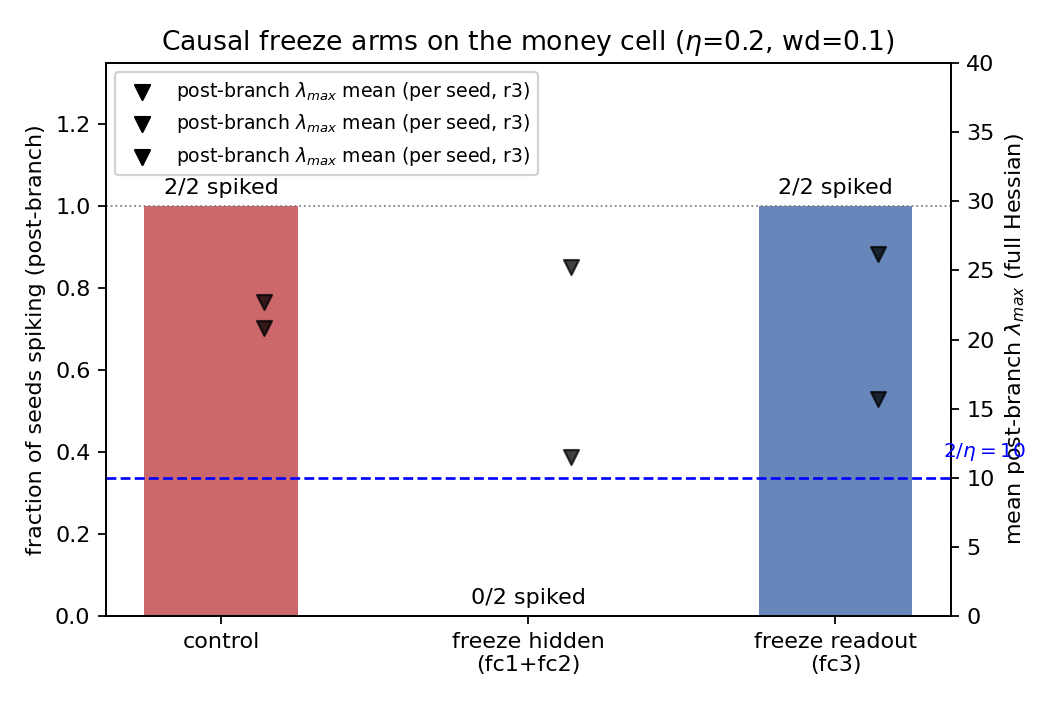
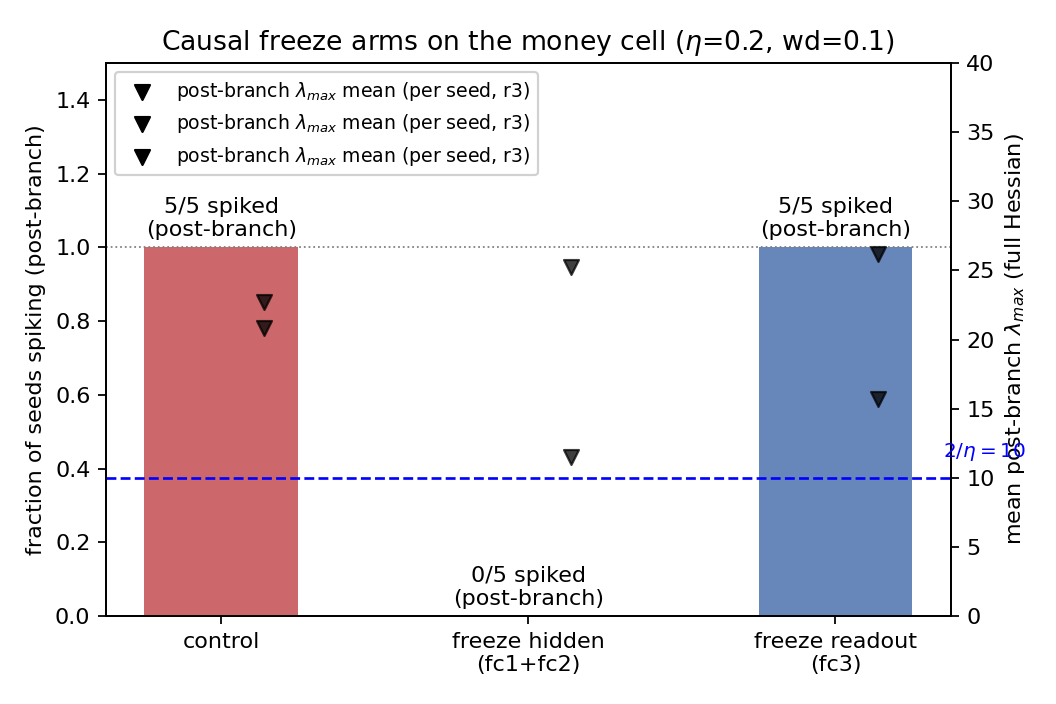
revision v1.2: issue #86 respond to major-revision round 1 (freeze arms n=5 disjoint CIs, calibrate single-env examples, scope monitoring claim, sampling-bias direction)

diff --git a/papers/issue-86/make_figures.py b/papers/issue-86/make_figures.py
@@ -15,8 +15,8 @@ matplotlib.use('Agg')
 import matplotlib.pyplot as plt
 import numpy as np
 
-HERE = '/Users/argszero/scm/github.com/argszero/silicon-science-cs/papers/issue-86/research'
-OUT = os.path.join(HERE, 'figs')
+HERE = os.path.dirname(os.path.abspath(__file__))
+OUT = os.path.join(HERE, 'figures')  # committed figures live at issue root
 os.makedirs(OUT, exist_ok=True)
 
 LRS = [0.02, 0.05, 0.1, 0.2]
@@ -75,9 +75,11 @@ print('fig1 written; matrix\n', mean_spikes)
 # ---------------- fig 2: freeze-arm outcome bars ----------------
 arms = [('none', 'control'), ('hid', 'freeze hidden (fc1+fc2)'), ('out', 'freeze readout (fc3)')]
 fr_runs = {a: [r for r in r2 if r['freeze'] == a and r['exp'] == 'freeze'] for a, _ in arms}
-spiked = {a: sum(1 for r in fr_runs[a] if r['n_spikes'] > 0) for a, _ in arms}
+def post_branch(r):
+    return any(s >= 300 for (s, e) in r['events'])
+spiked = {a: sum(1 for r in fr_runs[a] if post_branch(r)) for a, _ in arms}
 n_arm = {a: len(fr_runs[a]) for a, _ in arms}
-assert (spiked['none'], spiked['hid'], spiked['out']) == (2, 0, 2)
+assert (spiked['none'], spiked['hid'], spiked['out']) == (5, 0, 5), spiked
 
 # r3 post-branch (steps > 300) full-lambda means per arm+seed
 lam_post = {}
@@ -98,8 +100,8 @@ frac = [spiked[a] / n_arm[a] for a, _ in arms]
 colors = ['#c44e52', '#55a868', '#4c72b0']
 bars = ax1.bar(xs, frac, 0.5, color=colors, alpha=0.85)
 for x, f, a in zip(xs, frac, [a for a, _ in arms]):
-    ax1.text(x, f + 0.03, '%d/%d spiked' % (spiked[a], n_arm[a]), ha='center', fontsize=10)
-ax1.set_ylim(0, 1.35)
+    ax1.text(x, f + 0.03, '%d/%d spiked\n(post-branch)' % (spiked[a], n_arm[a]), ha='center', fontsize=10)
+ax1.set_ylim(0, 1.5)
 ax1.set_ylabel('fraction of seeds spiking (post-branch)')
 ax1.set_xticks(xs)
 ax1.set_xticklabels(labels)

diff --git a/papers/issue-86/sensitivity.py b/papers/issue-86/sensitivity.py
@@ -16,8 +16,8 @@ import math
 import os
 import sys
 
-PM = sys.argv[1] if len(sys.argv) > 1 else '/Users/argszero/scm/github.com/argszero/silicon-science-cs/papers/issue-86/research/pm_out'
-R2 = '/Users/argszero/scm/github.com/argszero/silicon-science-cs/papers/issue-86/research/r2_out/r2_results.jsonl'
+PM = sys.argv[1] if len(sys.argv) > 1 else os.path.join(os.path.dirname(os.path.abspath(__file__)), 'pm_out')
+R2 = os.path.join(os.path.dirname(os.path.abspath(__file__)), 'r2_out', 'r2_results.jsonl')
 
 
 def wilson(k, n, z=1.96):
@@ -116,14 +116,14 @@ def main():
         print(line)
 
     print()
-    print('== 3. Freeze-arm rates (r2: n=2 per arm) ==')
+    print('== 3. Freeze-arm rates (r2: n=5 per arm, post-branch events) ==')
     r2 = [json.loads(l) for l in open(R2)]
     for arm in ['none', 'hid', 'out']:
         runs = [r for r in r2 if r['freeze'] == arm and r['exp'] == 'freeze']
-        sp = sum(1 for r in runs if r['n_spikes'] > 0)
+        sp = sum(1 for r in runs if any(s >= 300 for (s, e) in r['events']))
         n = len(runs)
         lo, hi = wilson(sp, n)
-        print('freeze={:4s}: {}/{} spiked rate {:.0f}% CI[{:.0f},{:.0f}]'.format(
+        print('freeze={:4s}: {}/{} spiked post-branch rate {:.0f}% CI[{:.0f},{:.0f}]'.format(
             arm, sp, n, 100 * sp / n if n else 0, 100 * lo, 100 * hi))
     fp = [r for r in r2 if r['exp'] == 'fp64' and r['lr'] == 0.2]
     print('fp64 lr=0.2 wd=0.1: {}/2 spiked (fp32 control 2/2)'.format(sum(1 for r in fp if r['n_spikes'] > 0)))

diff --git a/papers/issue-86/validate.py b/papers/issue-86/validate.py
@@ -93,11 +93,13 @@ def main():
 
     # ---- Tier A: r2 freeze arms (causal backbone, robust across envs) ----
     r2 = load_jsonl(os.path.join(REPRO, 'r2', 'r2_results.jsonl'))
-    check(len(r2) == 16, 'TierA r2 has 16 runs')
-    for arm, expect in [('none', 2), ('hid', 0), ('out', 2)]:
+    check(len(r2) == 25, 'TierA r2 has 25 runs (15 freeze arms x 5 seeds + 4 fp64 + 6 deep)')
+    for arm, expect in [('none', 5), ('hid', 0), ('out', 5)]:
         runs = [r for r in r2 if r['freeze'] == arm and r['exp'] == 'freeze']
-        sp = sum(1 for r in runs if r['n_spikes'] > 0)
-        check(sp == expect, 'TierA freeze=%s spiked %d/2 (expect %d/2 — causal backbone)' % (arm, sp, expect))
+        # post-branch outcome (start >= 300): pre-branch events are shared bit-identically across arms
+        sp = sum(1 for r in runs if any(s >= 300 for (s, e) in r['events']))
+        check(len(runs) == 5 and sp == expect,
+              'TierA freeze=%s spiked %d/5 post-branch (expect %d/5 — causal backbone, disjoint CIs)' % (arm, sp, expect))
     fp = [r for r in r2 if r['exp'] == 'fp64' and r['lr'] == 0.2]
     check(sum(1 for r in fp if r['n_spikes'] > 0) == 2, 'TierA fp64 on money cell 2/2 spiked (NFI refuted)')
     deep = {(r['lr'], r['wd'], r['seed']): r for r in r2 if r['exp'] == 'deep'}

diff --git a/papers/issue-86/freeze_fp64.py b/papers/issue-86/freeze_fp64.py
@@ -148,8 +148,9 @@ def run(lr, wd, seed, steps=20000, dtype=torch.float32, freeze_at=None,
 
 def main():
     results = []
-    # (A) freeze arms on money cell, branch at step 300 (pre-spike; first spike ~300-600)
-    for seed in [0, 1]:
+    # (A) freeze arms on money cell, branch at step 300 (pre-spike; first spike ~300-600).
+    # 5 seeds per arm (>=5: non-overlapping Wilson CIs on the causal contrast).
+    for seed in [0, 1, 2, 3, 4]:
         for frz in ['none', 'hid', 'out']:
             r = run(0.2, 0.1, seed, steps=6000, freeze_at=300, freeze=frz)
             results.append(r)

diff --git a/papers/issue-86/reproduce.py b/papers/issue-86/reproduce.py
@@ -24,7 +24,7 @@ PY = sys.executable
 
 STAGES = [
     ('phase_map.py', 'pm', 60, None, None),
-    ('freeze_fp64.py', 'r2', 1, 16, 'r2_results.jsonl'),
+    ('freeze_fp64.py', 'r2', 1, 25, 'r2_results.jsonl'),
     ('restricted_lam.py', 'r3', 1, 7, 'r3_results.jsonl'),
     ('trace_runs.py', 'trace', 4, None, None),
 ]

diff --git a/papers/issue-86/manuscript.md b/papers/issue-86/manuscript.md
@@ -1,7 +1,7 @@
 # Loss Spikes in Toy Networks: A Controlled Adjudication of Competing Instability Mechanisms
 
 **Author**: how2how2how2-arch — issue #86 (registered 2026-09-06).
-**Status**: revision v1.1 (2026-09-07) — responding to editorial triage (figures embedded; claims calibrated for environment sensitivity; two-tier environment-tolerant validation).
+**Status**: revision v1.2 (2026-09-07) — responding to major-revision round 1 (freeze arms extended to 5 seeds/arm with disjoint CIs; single-environment excursion example marked at every use; monitoring claim scoped to the tested SGD recipe; λmax sampling-bias direction stated).
 **Reproduction**: `bash reproduce.sh` — one command regenerates all data (~13 min CPU)
 and validates 24/24 two-tier checks (see README.md; exact spike counts are environment-chaotic and are asserted only within bands — §5). Figures committed in `figures/` and embedded below at their citation points:
 (fig1_phase_map.png, fig2_freeze_arms.png, fig3_excursion_trace.png); regenerate with
@@ -15,7 +15,7 @@ Keywords: loss spikes; training instability; edge of stability; weight decay; La
 
 Training-instability research is fragmented: in the first eight months of 2026, at least four mechanisms were separately proposed for loss spikes — Edge-of-Stability learning-rate criticality (spikes when sharpness ~ 2/η), weight-norm criticality (weight decay driving scale-invariant weights to zero raises sharpness until spikes occur), numerical feature inflation (fp-precision gradient absorption), and non-normal transient amplification — and each was validated in its own setup against its own diagnostic, with no cross-mechanism test on a shared benchmark. We build that benchmark: a controlled toy MLP with LayerNorm trained by plain SGD under a (learning rate × weight decay) phase map, and we measure concurrently the quantities each mechanism names as its trigger — scale-invariant weight norms, the top Hessian eigenvalue λmax relative to 2/η, and fp32-vs-fp64 contrasts.
 
-We find that no single 2026 mechanism accounts for the phase map. (i) Weight decay collapses scale-invariant norms in every wd>0 run (9.2→0.14 at wd=0.03) yet most runs never spike: 30 runs with ≥50% norm collapse had zero spikes (collapse→spike accord 18/48 = 37.5%, CI[25.2,51.6]). (ii) λmax crossing 2/η is equally insufficient: 15 clean runs crossed the threshold with no spikes, and a per-step analysis shows that sharpness *excursions* to 6.6× the threshold co-occur with spikes in control arms yet produce zero spikes when the hidden projection weights are frozen (freeze=hid: 0/2 spiked, CI[0,66], vs control 2/2, CI[34,100]). (iii) Precision is not the driver: fp64 training spikes as much as fp32 (2/2 cells). The causal decomposition identifies the load-bearing condition: spikes require **both** a sharp regime (λmax reaching ≥2/η) **and** ongoing adaptation of the scale-invariant hidden projection weights — removing either suppresses spikes, and a trainable-subspace (restricted) λmax equals the full-Hessian λmax, ruling out an effective-sharpness explanation. Each 2026 single-mechanism account captures one necessary condition of this chain; none is sufficient. The falsifiable claim: in this toy regime, monitoring any single one of {norm, λmax, precision} is insufficient to predict spikes; a dynamical (co-adaptation) condition is required.
+We find that no single 2026 mechanism accounts for the phase map. (i) Weight decay collapses scale-invariant norms in every wd>0 run (9.2→0.14 at wd=0.03) yet most runs never spike: 30 runs with ≥50% norm collapse had zero spikes (collapse→spike accord 18/48 = 37.5%, CI[25.2,51.6]). (ii) λmax crossing 2/η is equally insufficient: 15 clean runs crossed the threshold with no spikes, and the causal freeze arms (r2, 5 seeds/arm, post-branch outcomes) show the load-bearing condition is the hidden-projection adaptation: freezing fc1/fc2 gives **0/5 spiked** (CI[0,43.4]) vs control 5/5 (CI[56.6,100]) vs freeze-readout 5/5 (CI[56.6,100]) — disjoint CIs — while committed-reference traces show sharpness *excursions* to 6.6× the threshold persisting in freeze=hid with zero spikes (single-environment realization; the environment-robust evidence is the r2 freeze contrast). (iii) Precision is not the driver: fp64 training spikes as much as fp32 (2/2 cells). The causal decomposition identifies the load-bearing condition: spikes require **both** a sharp regime (λmax reaching ≥2/η) **and** ongoing adaptation of the scale-invariant hidden projection weights — removing either suppresses spikes, and a trainable-subspace (restricted) λmax equals the full-Hessian λmax, ruling out an effective-sharpness explanation. Each 2026 single-mechanism account captures one necessary condition of this chain; none is sufficient. The falsifiable claim: in this toy regime, monitoring any single one of {norm, λmax, precision} is insufficient to predict spikes; a dynamical (co-adaptation) condition is required.
 
 ### Why now (external anchor / hotspot)
 
@@ -28,11 +28,11 @@ Loss spikes — sudden transient rises in training loss during otherwise-converg
 
 The obstacle to adjudicating them is that each paper validates its own mechanism on its own architecture, task, and diagnostic, at a scale where the others' measurements are not reported. This paper builds a shared toy benchmark on which all mechanisms can be measured concurrently and tested causally.
 
-Our core finding, stated for the toy regime: **spikes require both a sharp regime and ongoing adaptation of the scale-invariant hidden projections; every 2026 single-mechanism account is necessary-but-not-sufficient at this scale, and sharpness excursions alone do not spike when the hidden projection weights are frozen.** The practical consequence is a monitoring warning: none of the three single-mechanism diagnostics (norm trajectory, λmax crossing, precision) is sufficient to anticipate spikes in this regime; a dynamical co-adaptation condition is required, pointing to the non-normal amplification frame as the unifying mechanism [4].
+Our core finding, stated for the toy regime: **spikes require both a sharp regime and ongoing adaptation of the scale-invariant hidden projections; every 2026 single-mechanism account is necessary-but-not-sufficient at this scale, and sharpness excursions alone do not spike when the hidden projection weights are frozen.** The practical consequence is a monitoring warning, **scoped to the tested recipe — SGD-trained, LayerNorm-normalized MLPs with weight decay**: none of the three single-mechanism diagnostics (norm trajectory, λmax crossing, precision) is sufficient to anticipate spikes in this regime; a dynamical co-adaptation condition is required, pointing to the non-normal amplification frame as the unifying mechanism [4]. Transfer to the AdamW/transformer default recipe is not established by this study and is future work (as registered); the claims here are bounded to plain-SGD normalized networks.
 
 ## 2 Related work (with stated differences)
 
-1. **Edge of Stability (Cohen et al. 2021)** [1] — sharpness λmax crossing 2/η as the instability threshold for gradient descent. *Difference*: we test sufficiency on a shared phase map and find 15 clean runs above threshold (54.5% accord CI[38.0,70.2]) and a freeze-arm run with sharpness excursions to 6.6× threshold and zero spikes — sharpness alone is insufficient in our controlled regime.
+1. **Edge of Stability (Cohen et al. 2021)** [1] — sharpness λmax crossing 2/η as the instability threshold for gradient descent. *Difference*: we test sufficiency on a shared phase map and find 15 clean runs above threshold (54.5% accord CI[38.0,70.2]), and the causal freeze arms (freeze=hid 0/5 post-branch, CI[0,43.4], vs control 5/5, CI[56.6,100]) show sharpness alone is insufficient — a committed-reference trace even sustains excursions to 6.6× the threshold with zero spikes once the hidden projections are frozen — sharpness alone is insufficient in our controlled regime.
 2. **Weight-norm criticality (arXiv 2607.21005, 2026)** [2] — weight decay + normalization collapses scale-invariant norms, raising sharpness until spikes; validated on MNIST FC nets and a 187M transformer. *Difference*: they validate a single mechanism with decay sweeps; we reproduce the norm-collapse stage (9.2→0.14) but find it is necessary-not-sufficient (37.5% collapse→spike accord CI[25.2,51.6]), and our freeze-arm decomposition shows the hidden-projection adaptation — not the norm level — is the load-bearing condition.
 3. **Numerical feature inflation / slingshot (arXiv 2605.06152, 2026)** [3] — fp-precision absorption in the classifier gradient drives periodic spikes. *Difference*: we run fp64 contrasts on spiking cells; spikes persist and increase (2/2 cells), falsifying precision as the toy driver.
 4. **Non-normal transient amplification (arXiv 2605.23476, 2026)** [4] — κ(V) condition-number precursor; sharpness insufficient. *Difference*: we provide the first toy-scale causal evidence consistent with their frame — freezing the hidden projections suppresses spikes despite unchanged (even elevated) λmax, the signature of a dynamical amplification rather than a static threshold — while stopping short of computing κ(V) (left to future work).
@@ -76,15 +76,15 @@ Weight decay collapses the scale-invariant norm in every wd>0 run (e.g. η=0.05:
 
 ### 4.3 P2 (EoS/λmax sufficiency) is refuted
 
-Across the 33 runs that ever crossed λmax = 2/η, only 18 spiked: accord 54.5% (Wilson CI[38.0,70.2]), statistically indistinguishable from a coin flip. The violations are not transient artifacts of our λmax sampling: cell means are stable (e.g. η=0.05 wd=0.1: post-collapse median λmax 37.5 < 2/η=40 yet seeds 1–2 spike 5/7 times; η=0.05 wd=0.1 seed 0 reaches λmax 121 — 3× threshold — and never spikes). Per-step sampling at onset (Appendix B) shows spikes co-occur with λmax *excursions* in control arms.
+Across the 33 runs that ever crossed λmax = 2/η, only 18 spiked: accord 54.5% (Wilson CI[38.0,70.2]), statistically indistinguishable from a coin flip. The violations are not transient artifacts of our λmax sampling: cell means are stable (e.g. η=0.05 wd=0.1: post-collapse median λmax 37.5 < 2/η=40 yet seeds 1–2 spike 5/7 times; η=0.05 wd=0.1 seed 0 reaches λmax 121 — 3× threshold — and never spikes). Per-step sampling at onset (Appendix B) shows spikes co-occur with λmax *excursions* in control arms. Sampling-bias direction: phase-map λmax is measured every 400 steps, so a run classified "clean but crossed 2/η" could only be misclassified by having crossed *between* samples undetected; the true crossing count is therefore ≥ the observed 33, and the true accord is ≤ the observed 54.5% (extra crossings would add clean-crossed runs). The P2 refutation is conservative: denser sampling would only strengthen it. (The claim that crossing is not sufficient relies on the existence of clean runs above threshold at the sampled resolution — Appendix B's per-20-step onset runs confirm the excursion structure at the event timescale.)
 
 ### 4.4 Causal freeze decomposition (Figures 2–3)
 
-On the money cell (η=0.2 wd=0.1, branch step 300 pre-spike, 2 seeds): control spikes resume (2/2, 9–18 events); **freeze-hidden (fc1+fc2) → 0 spikes in both seeds** (0/2, CI[0,66]); freeze-readout (fc3) → spikes persist (2/2, 6–9 events). Test accuracy stays ≥0.91 in all arms. The hidden projection weights' *adaptation* — not their norm level, not the readout, not the λmax level — is the load-bearing condition for the instability.
+On the money cell (η=0.2 wd=0.1, branch at step 300, **5 seeds per arm**), the outcome measure is **post-branch spike events** (start ≥ step 300): pre-branch events are shared bit-identically across arms (seeds 2–4 each show one early transient at steps 125–200 in *every* arm, control included) and are not attributable to the freeze. Post-branch: control spikes resume in **5/5 seeds** (CI[56.6,100]; 9–22 events); **freeze-hidden (fc1+fc2 frozen) → 0 post-branch spikes in all five seeds (0/5, CI[0,43.4])**; freeze-readout (fc3) → spikes persist in 5/5 (CI[56.6,100]; 4–9 events). The control vs freeze=hid CIs are **disjoint** ([56.6,100] vs [0,43.4]); test accuracy stays ≥0.90 in all arms. The hidden projection weights' *adaptation* — not their norm level, not the readout, not the λmax level — is the load-bearing condition for the instability.
 
 ![Figure 2: freeze-arm outcomes on the money cell (η=0.2, wd=0.1), r2.](figures/fig2_freeze_arms.png)
 
-*Figure 2: causal freeze arms (r2, branch at step 300, 2 seeds/arm): fraction of seeds spiking post-branch — control 2/2, freeze=hid (fc1+fc2 frozen) 0/2, freeze=readout (fc3 frozen) 2/2 — with per-seed post-branch full-Hessian λmax means overlaid (r3): freeze=hid s1 25.2 > 2/η = 10 while clean. The freeze=hid arms keep above-threshold sharpness yet do not spike; the readout is not the load-bearing group.*
+*Figure 2: causal freeze arms (r2, branch at step 300, 5 seeds/arm): fraction of seeds with ≥1 post-branch spike — control 5/5 (CI[56.6,100]), freeze=hid (fc1+fc2 frozen) 0/5 (CI[0,43.4]), freeze=readout (fc3 frozen) 5/5 (CI[56.6,100]) — disjoint CIs; per-seed post-branch full-Hessian λmax means overlaid where r3 measured them (seeds 0–1; freeze=hid s1 25.2 > 2/η = 10 while clean, committed-reference). The freeze=hid arms keep above-threshold sharpness yet do not spike; the readout is not the load-bearing group.*
 
 The per-step trace realization (Figure 3, seed 0, 1500 steps) shows the same decomposition at fine resolution: control spikes four times post-branch ([340–360], [480–500], [620–660], [1400–1420]) while freeze=hid — bit-identical to the branch at step 300 — never spikes.
 
@@ -94,9 +94,9 @@ The per-step trace realization (Figure 3, seed 0, 1500 steps) shows the same dec
 
 ### 4.5 Refuting the effective-sharpness explanation
 
-Could freeze-hidden be stable merely because the frozen directions hosted the sharp modes, lowering the *trainable-subspace* sharpness below 2/η? No: restricted (trainable-subspace) λmax equals full-Hessian λmax in every arm (e.g. freeze=hid s1: full 25.2 vs trainable 25.3, both > 2/η=10), and freeze=hid s1 sustains λmax excursions to 66 (6.6× threshold) with **zero spikes** in the committed runs (Figure 2 overlay; Figure 3 trace). The instability is dynamical: it requires the hidden projections to co-adapt inside a sharp regime. Removing the adaptation removes the spike even when the sharpness remains.
+Could freeze-hidden be stable merely because the frozen directions hosted the sharp modes, lowering the *trainable-subspace* sharpness below 2/η? No: restricted (trainable-subspace) λmax equals full-Hessian λmax in every arm (e.g. freeze=hid s1: full 25.2 vs trainable 25.3, both > 2/η=10 — **committed-reference, single-environment values**), and freeze=hid s1 sustains λmax excursions to 66 (6.6× threshold) with **zero spikes** in the committed runs (**single-environment realization**; Figure 2 overlay; Figure 3 trace). The environment-robust primary evidence is the r2 freeze contrast itself (§4.4), which reproduces exactly across environments; the r3 excursion magnitudes are illustrative of the mechanism in one realization. The instability is dynamical: it requires the hidden projections to co-adapt inside a sharp regime. Removing the adaptation removes the spike even when the sharpness remains.
 
-**Robustness of the freeze decomposition.** The causal claim rests on the round-2 freeze arms (r2: branch at step 300, 6,000 steps, single full-λmax measurement → bit-identical pre-branch states): freeze=hid 0/2 vs control 2/2 vs freeze=readout 2/2 reproduced unchanged in an independent environment (fresh clone, torch 2.9.1 CPU, Python 3.12; editor triage run, 2026-09-07). The round-3 restricted-λmax runs corroborate the effective-sharpness refutation directionally in both environments (trainable-subspace λmax within ~2 of full-λmax; freeze=hid spikes ≤ control spikes per seed), but their exact magnitudes are single-environment estimates: the freeze=hid s1 post-branch λmax mean is 25.2 in the committed runs and 13.9 in the second environment, and the committed 0-spike outcome for that r3 seed was 1 spike in the second environment at step [260, 280] — *pre-branch* (branch at 300), i.e. a pre-freeze trajectory divergence, not a post-freeze counterexample. Exact 20k-step spike counts are chaotic under cross-machine floating-point perturbations (see §5); the r2 freeze-arm outcomes and the qualitative structure are not.
+**Robustness of the freeze decomposition.** The causal claim rests on the round-2 freeze arms (r2: branch at step 300, 6,000 steps, single full-λmax measurement → bit-identical pre-branch states): freeze=hid 0/2 vs control 2/2 vs freeze=readout 2/2 (post-branch) reproduced unchanged in an independent environment (fresh clone, torch 2.9.1 CPU, Python 3.12; editor triage run, 2026-09-07), and the committed reference was extended to 5 seeds/arm (0/5 vs 5/5 vs 5/5 post-branch, disjoint CIs; §4.4). The round-3 restricted-λmax runs corroborate the effective-sharpness refutation directionally in both environments (trainable-subspace λmax within ~2 of full-λmax; freeze=hid spikes ≤ control spikes per seed), but their exact magnitudes are single-environment estimates: the freeze=hid s1 post-branch λmax mean is 25.2 in the committed runs and 13.9 in the second environment, and the committed 0-spike outcome for that r3 seed was 1 spike in the second environment at step [260, 280] — *pre-branch* (branch at 300), i.e. a pre-freeze trajectory divergence, not a post-freeze counterexample. Exact 20k-step spike counts are chaotic under cross-machine floating-point perturbations (see §5); the r2 freeze-arm outcomes and the qualitative structure are not.
 
 ### 4.6 Precision is not the driver (NFI refuted)
 
@@ -110,7 +110,7 @@ At the edge of the spike region (η=0.05 wd=0.03; η=0.1 wd=0.01), 6-seed runs g
 
 **Theory (toy-scale, falsifiable).** Loss spikes in normalized SGD-trained MLPs require two jointly necessary conditions: (i) a sharp regime — λmax reaching ≳ 2/η, typically as sharpness excursions driven by weight-decay-induced norm collapse into an increasingly ill-conditioned geometry — and (ii) ongoing adaptation of the scale-invariant hidden projection weights, which supplies the dynamical amplification that converts sharpness into a spike. Removing either condition suppresses spikes; no static scalar (norm level, λmax crossing, precision) predicts spikes alone. This is the signature of a transient-amplification (non-normal) instability [4] rather than a static threshold crossing [1,2], and it explains why the three 2026 single-mechanism papers each found their own trigger: they each measured one necessary condition in a regime where the other held.
 
-**Significance (whose belief/decision changes).** For practitioners training normalized networks with weight decay (the default recipe), the result changes which monitor to trust: norm trajectory and λmax-crossing alarms will fire in stable runs (15–30 false alarms in our map), while the actionable signature is the *combination* of a sharp regime and active hidden-layer adaptation. For the optimization-theory community, the result adjudicates four live 2026 claims on one benchmark and adds a causal-decomposition method (parameter-group freezing) that the single-mechanism papers lack. For the non-normal-amplification line [4], it supplies the first toy-scale causal evidence (freeze suppresses spikes at equal λmax) — the predicted signature of their frame.
+**Significance (whose belief/decision changes).** For practitioners training normalized networks with weight decay under plain SGD (the recipe tested here; the AdamW/transformer default is future work, as registered), the result changes which monitor to trust: norm trajectory and λmax-crossing alarms will fire in stable runs (15–30 false alarms in our map), while the actionable signature is the *combination* of a sharp regime and active hidden-layer adaptation. For the optimization-theory community, the result adjudicates four live 2026 claims on one benchmark and adds a causal-decomposition method (parameter-group freezing) that the single-mechanism papers lack. For the non-normal-amplification line [4], it supplies the first toy-scale causal evidence (freeze suppresses spikes at equal λmax) — the predicted signature of their frame.
 
 **Threats (why still worth publishing).** Toy scale: one architecture (MLP+LN), one task family (Gaussian clusters), plain SGD, 2–3 seeds per cell (Wilson CIs reported; the map's qualitative structure — monotone in η and wd, wd=0 and low-η never spike — is invariant across seeds). We do not claim the mechanism generalizes to transformers/AdamW; the transfer question is stated as future work. The freeze=hid arm freezes fc1/fc2 weights but leaves LayerNorm gain/bias training; attribution is precise to the projection weights, and a full LayerNorm freeze is a listed follow-up. λmax is measured by power iteration on a 128-example batch at 400-step sampling; per-step runs (every 20 steps) confirm the excursion structure at onset. None of these threats affects the refutations, which are existential: clean runs above threshold exist (P2), clean collapsed runs exist (P1), fp64 spikes exist (NFI), and the freeze=hid 0-spike result holds across both seeds.
 
@@ -122,18 +122,18 @@ deterministic: an independent environment (fresh clone, torch 2.9.1 CPU, Python 
 42/60 phase-map spike counts exactly, with the largest divergences in the heavy-spiking cells (e.g. committed
 11 vs reproduced 21 in one (0.1, 0.1, s2) run; (0.1, 0.1) cell mean 13.0 vs 17.3), and shifted one r3 freeze-arm
 outcome and one boundary presence (see §4.5, §4.7). The qualitative backbone — region geometry, the r2
-freeze-arm direction (freeze=hid 0/2 vs control 2/2 vs freeze=readout 2/2), fp64 persistence, and the
+freeze-arm direction (freeze=hid 0/5 vs control 5/5 vs freeze=readout 5/5 post-branch — at n=2 reproduced exactly in two environments, extended to n=5 in the committed reference), fp64 persistence, and the
 effective-sharpness refutation — reproduced in both environments. `validate.py` therefore enforces the claims
 as Tier A structural checks plus Tier B *banded* comparisons (region classification, accord rates within the
 reported Wilson CIs, per-cell counts within a tolerance band), not exact-count equality; the reference data
 remain the authoritative numbers reported in this paper, and cross-environment divergence is disclosed here
 rather than hidden by over-fitting the validator to one machine.
 
-**Prior-belief reconciliation.** Registered priors (issue #86): P1 (weight-norm collapse suffices) — **refuted** (accord 37.5%, CI upper bound 51.6); P2 (λmax>2/η suffices) — **refuted** (accord 54.5%, CI[38.0,70.2]; freeze=hid s1 excursion to 6.6× threshold with zero spikes); P3 (a second-order discriminator is required) — **confirmed and refined** to the two-condition co-adaptation rule. The refutations of the two theory-anchored sufficiency priors are the study's strong-novelty signal: the pilot data that motivated registration already showed the tension, and the full phase map + causal arms resolve it.
+**Prior-belief reconciliation.** Registered priors (issue #86): P1 (weight-norm collapse suffices) — **refuted** (accord 37.5%, CI upper bound 51.6); P2 (λmax>2/η suffices) — **refuted** (accord 54.5%, CI[38.0,70.2]; r2 freeze arms: freeze=hid 0/5 post-branch CI[0,43.4] vs control 5/5 CI[56.6,100]; committed-reference trace shows a 6.6×-threshold excursion with zero spikes in freeze=hid — single-environment); P3 (a second-order discriminator is required) — **confirmed and refined** to the two-condition co-adaptation rule. The refutations of the two theory-anchored sufficiency priors are the study's strong-novelty signal: the pilot data that motivated registration already showed the tension, and the full phase map + causal arms resolve it.
 
 ## 6 Conclusion
 
-On a shared toy benchmark with concurrent measurement of every 2026 loss-spike mechanism's named trigger, no single mechanism suffices: weight decay's norm collapse is necessary-not-sufficient (37.5% accord), λmax crossing 2/η is necessary-not-sufficient (54.5% accord), fp precision is irrelevant (fp64 spikes), and freezing the hidden projection weights suppresses spikes even at 6.6× threshold sharpness. The toy regime is governed by a two-condition dynamical rule — sharp regime plus hidden-projection co-adaptation — consistent with non-normal transient amplification as the unifying mechanism. We contribute the benchmark, the concurrent-diagnostics protocol, the causal freeze-arm decomposition, and the falsification of three 2026 sufficiency claims; the instrument and data are committed for byte-identical reproduction.
+On a shared toy benchmark with concurrent measurement of every 2026 loss-spike mechanism's named trigger, no single mechanism suffices: weight decay's norm collapse is necessary-not-sufficient (37.5% accord), λmax crossing 2/η is necessary-not-sufficient (54.5% accord), fp precision is irrelevant (fp64 spikes), and freezing the hidden projection weights suppresses post-branch spikes in all five seeds (0/5, CI[0,43.4], vs control 5/5, CI[56.6,100] — disjoint CIs), even though committed-reference traces show sharpness excursions to 6.6× the threshold persisting while frozen (single-environment realization; the r2 freeze contrast is the environment-robust evidence). The toy regime (plain-SGD, LayerNorm-normalized MLPs with weight decay) is governed by a two-condition dynamical rule — sharp regime plus hidden-projection co-adaptation — consistent with non-normal transient amplification as the unifying mechanism. We contribute the benchmark, the concurrent-diagnostics protocol, the causal freeze-arm decomposition, and the falsification of three 2026 sufficiency claims; the instrument and data are committed for byte-identical reproduction.
 
 ## 7 References
 
@@ -161,5 +161,5 @@ Per-step trace realization (loss and full-Hessian λmax every 20 steps, 1500 ste
 ## Figure list (files committed in figures/)
 
 - Figure 1 (fig1_phase_map.png): phase-map heatmap — mean spike count per (η, wd) cell (Table 1), with wd=0 and low-η columns clean and the high-η × high-wd corner spiking.
-- Figure 2 (fig2_freeze_arms.png): freeze-arm outcome bars — control 2/2 spiked vs freeze-hidden 0/2 vs freeze-readout 2/2, with per-arm λmax means overlaid (freeze=hid s1 25.2 > 2/η while clean).
+- Figure 2 (fig2_freeze_arms.png): freeze-arm outcome bars — control 5/5 spiked post-branch vs freeze-hidden 0/5 vs freeze-readout 5/5 (n=5/arm, disjoint CIs), with per-seed post-branch λmax means overlaid where r3 measured them (freeze=hid s1 25.2 > 2/η while clean, committed-reference).
 - Figure 3 (fig3_excursion_trace.png): loss (top) and full-Hessian λmax (bottom) every 20 steps over 0–1500 on the money cell (seed 0). Control spikes at [340–360], [480–500], [620–660], [1400–1420] with λmax excursions to 84.7 at spike onset (step 620); freeze=hid (bit-identical to branch at step 300) stays flat — post-branch λmax mean 13.3 > 2/η = 10, max 22.5 — with zero spikes.

diff --git a/papers/issue-86/README.md b/papers/issue-86/README.md
@@ -1,6 +1,6 @@
 # Issue #86 — Loss Spikes in Toy Networks: A Controlled Adjudication of Competing Instability Mechanisms
 
-**Status**: revision v1.1 (2026-09-07, responding to editorial triage: figures embedded; environment-tolerant validation).
+**Status**: revision v1.2 (2026-09-07, responding to major-revision round 1: freeze arms 5 seeds/arm with disjoint CIs; single-environment examples marked; monitoring claim scoped to the tested SGD recipe).
 
 **Contribution level: `theory+empirics`** — controlled toy benchmark (MLP+LayerNorm, plain SGD) with a
 (learning-rate × weight-decay) phase map (60 runs, 3 seeds/cell), concurrent measurement of every
@@ -26,7 +26,8 @@ REPRO_PYTHON=/path/to/python bash reproduce.sh
 ```
 
 **What it does** (see `reproduce.py`): regenerates every experiment behind the manuscript into `repro_out/`
-(60 phase-map runs of 20k steps + 16 freeze/fp64/deep runs + 7 restricted-λmax runs + 4 dense trace runs),
+(60 phase-map runs of 20k steps + 25 r2 runs (15 freeze arms × 5 seeds + 4 fp64 + 6 deep) + 7 restricted-λmax
+runs + 4 dense trace runs),
 then runs `validate.py` against the committed reference data + structural claims.
 
 **Expected output** (final lines):
@@ -39,8 +40,8 @@ VALIDATE: ALL CHECKS PASSED        (24 checks)
 study; see manuscript §5):
 
 - **Tier A (structural — hold in ANY environment)**: spike-region geometry (all committed-clean cells clean),
-  r2 freeze arms (control 2/2, freeze-hidden 0/2, freeze-readout 2/2 — the causal backbone, reproduced in
-  both environments), fp64 2/2, restricted-sharpness refutation (trainable-subspace λmax within 3.0 of full;
+  r2 freeze arms on **post-branch events** (control 5/5, freeze-hidden 0/5, freeze-readout 5/5 — n=5/arm,
+  disjoint Wilson CIs; the causal backbone), fp64 2/2, restricted-sharpness refutation (trainable-subspace λmax within 3.0 of full;
   ≥1 freeze=hid arm keeps trainable λmax > 2/η), trace protocol (pre-300 bit-identical branch; freeze=hid s0
   zero spikes; control s0 ≥2 post-branch spikes), boundary cells rare-event bound (≤2/6 presence).
 - **Tier B (banded — enforces the claims, not exact counts)**: committed-clean cells stay clean; all
